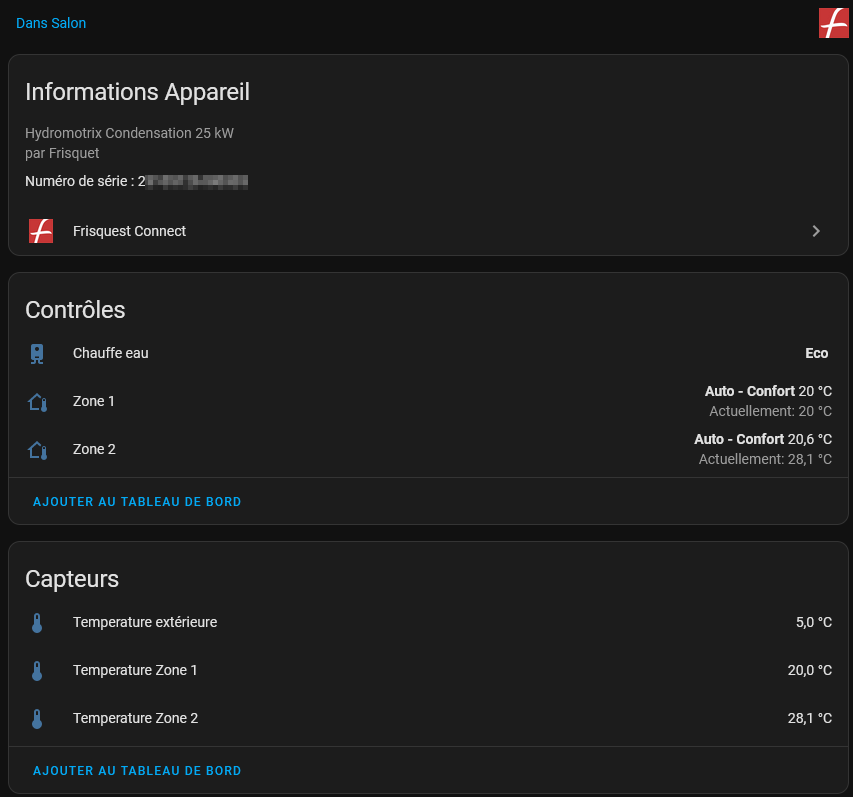
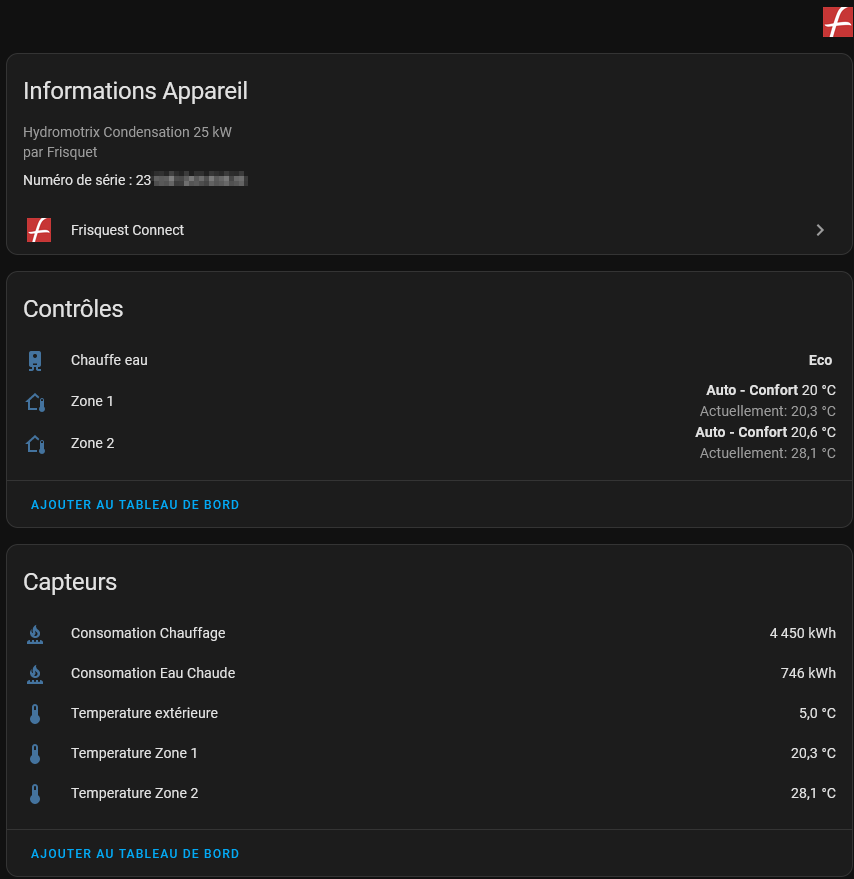
update readme + API optim

diff --git a/custom_components/frisquet_connect/frisquetAPI.py b/custom_components/frisquet_connect/frisquetAPI.py
@@ -84,31 +84,27 @@ class FrisquetGetInfo:
                             self.data["ecs"] = response["ecs"]
                             self.previousdata= self.data
                             await _session.close()
-                            if i == 0:
-                              _url2 = API_URL+ json_data["utilisateur"]["sites"][0]["identifiant_chaudiere"]+"/conso?token="+json_data["token"]+"&types[]=CHF&types[]=SAN"
+                            #if i == 0:
+                            _url2 = API_URL+ json_data["utilisateur"]["sites"][0]["identifiant_chaudiere"]+"/conso?token="+json_data["token"]+"&types[]=CHF&types[]=SAN"
 
-                              _session2 = aiohttp.ClientSession(headers="")
-                              _LOGGER.debug("In PoolFrisquestAPI with url :'%s",_url2)
+                            _session2 = aiohttp.ClientSession(headers="")
+                            _LOGGER.debug("In PoolFrisquestAPI with url :'%s",_url2)
 
-                              async with await _session2.get(url=_url2) as resp2:
-                              #if idx == 0:   ##if else to test no response from server
-                                response2 = await resp2.json()
-                                _LOGGER.debug("response API energy :'%s",response2)
-                              #self.data["zone"+str(i+1)]["energy"] = response2
-                              j=0
-
-                              consoCHF = 0
-                              consoSAN = 0
-                              for j in range(len(response2["CHF"])):
-                                consoCHF = consoCHF + response2["CHF"][j]["valeur"]
-                                if response2["SAN"] is not None:
-                                   consoSAN = consoSAN + response2["SAN"][j]["valeur"]
-
-                              self.data["zone"+str(i+1)]["energy"] = {}
-                              self.data["zone"+str(i+1)]["energy"]["CHF"] = consoCHF
+                            async with await _session2.get(url=_url2) as resp2:
+                              response2 = await resp2.json()
+                              _LOGGER.debug("response API energy :'%s",response2)
+                            j=0
+                            consoCHF = 0
+                            consoSAN = 0
+                            for j in range(len(response2["CHF"])):
+                              consoCHF = consoCHF + response2["CHF"][j]["valeur"]
                               if response2["SAN"] is not None:
-                                self.data["zone"+str(i+1)]["energy"]["SAN"] = consoSAN
+                                  consoSAN = consoSAN + response2["SAN"][j]["valeur"]
 
+                            self.data["zone1"]["energy"] = {}
+                            self.data["zone1"]["energy"]["CHF"] = consoCHF
+                            if response2["SAN"] is not None:
+                              self.data["zone1"]["energy"]["SAN"] = consoSAN
                             await _session2.close()
 
                             if idx == 0:

diff --git a/README.md b/README.md
@@ -45,4 +45,11 @@ Switch to OFF or Chauffe has no effect.<br>
 
     - Boost Mode available
 
+- Consumption :
+There are 2 sensors that retrieve total consumption (not on monthly basis).
+You can add them into your energy dashboard to gas consumption. Value will appear 1 day you add them into it :
+As Frisquet update value only once per day, each sensors will be updated over the night.
+Please consider that values you will get will have 1 day offset : HA will record data at a D Day whereas it is D-1 value.
+If you want more accurate value and if you have a Gazpar Gas meter (France), I recommend you to see those 2 videos below :
+https://youtu.be/YMdMFE2ysZE?si=W_hLeRye67dGsnlm  &  https://youtu.be/mjTrnnkuIUk?si=RKshhFiMmjamkC3i This setup allows to have accurate data that will be recorded for every 30 minutes in your energy dashboard. You can also track instant consumption with a derivative sensor.
 

diff --git a/info.md b/info.md
@@ -35,3 +35,11 @@ Switch to OFF or Chauffe has no effect.<br>
 
     - Boost Mode available
 
+- Consumption :
+There are 2 sensors that retrieve total consumption (not on monthly basis).
+You can add them into your energy dashboard to gas consumption. Value will appear 1 day you add them into it :
+As Frisquet update value only once per day, each sensors will be updated over the night.
+Please consider that values you will get will have 1 day offset : HA will record data at a D Day whereas it is D-1 value.
+If you want more accurate value and if you have a Gazpar Gas meter (France), I recommend you to see those 2 videos below :
+https://youtu.be/YMdMFE2ysZE?si=W_hLeRye67dGsnlm  &  https://youtu.be/mjTrnnkuIUk?si=RKshhFiMmjamkC3i This setup allows to have accurate data that will be recorded for every 30 minutes in your energy dashboard. You can also track instant consumption with a derivative sensor.
+
